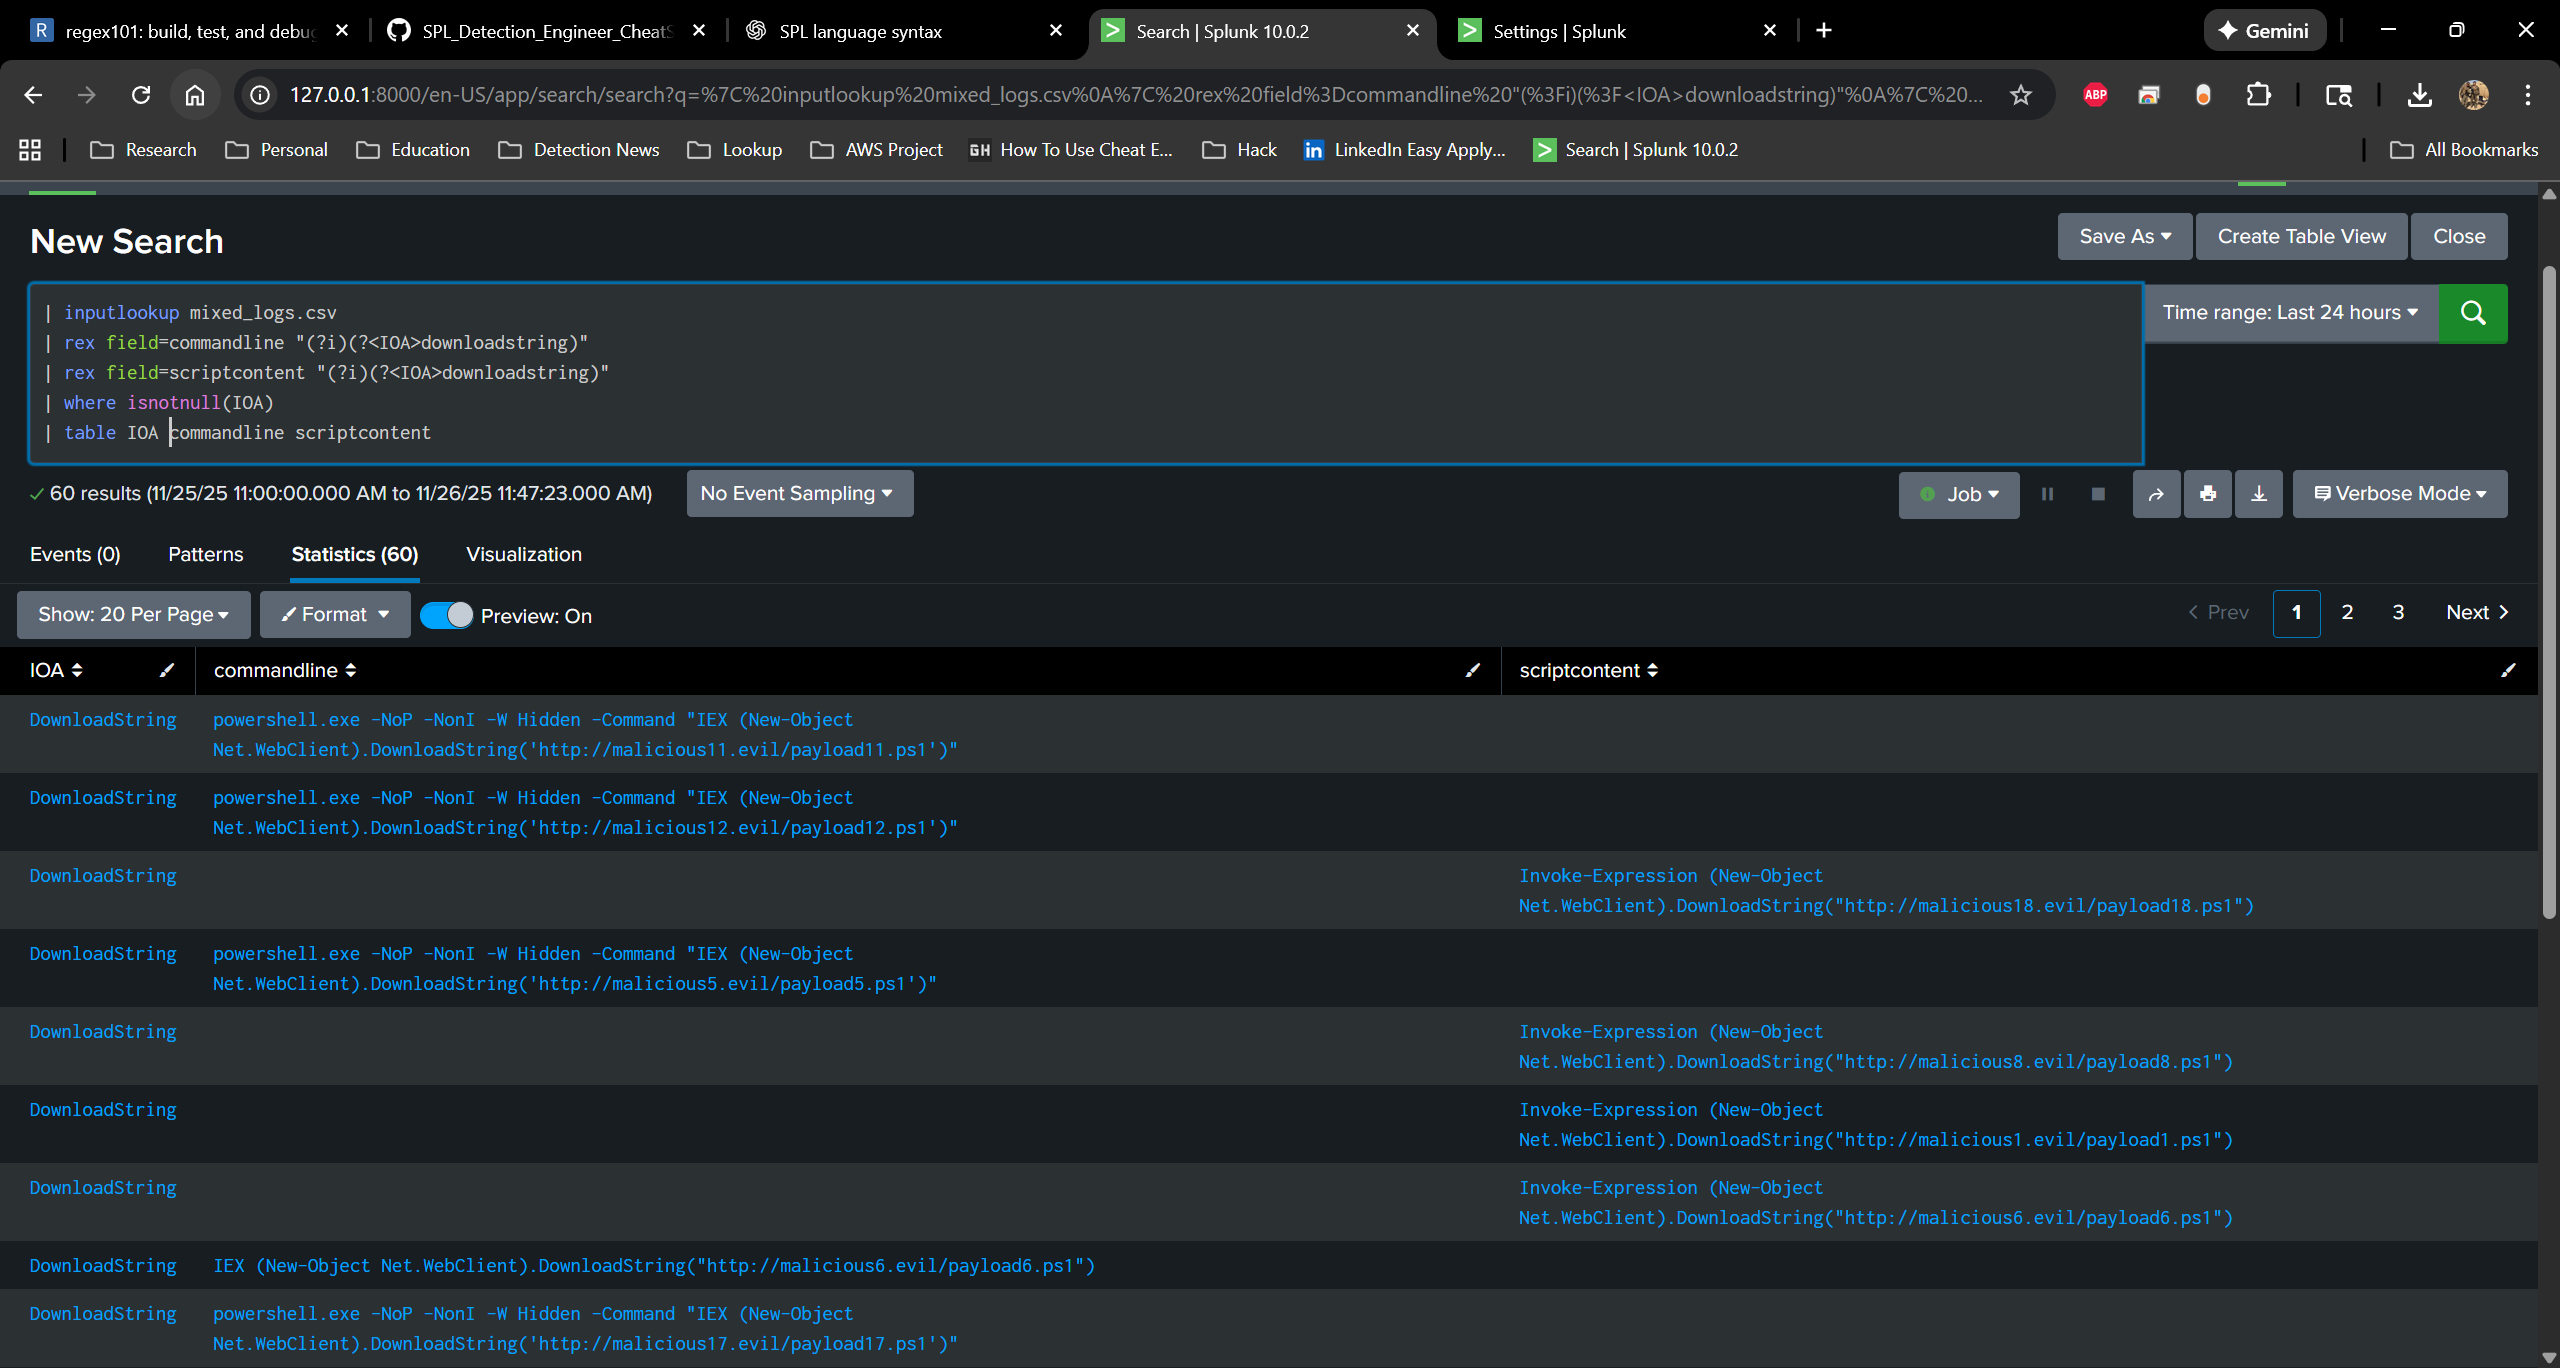
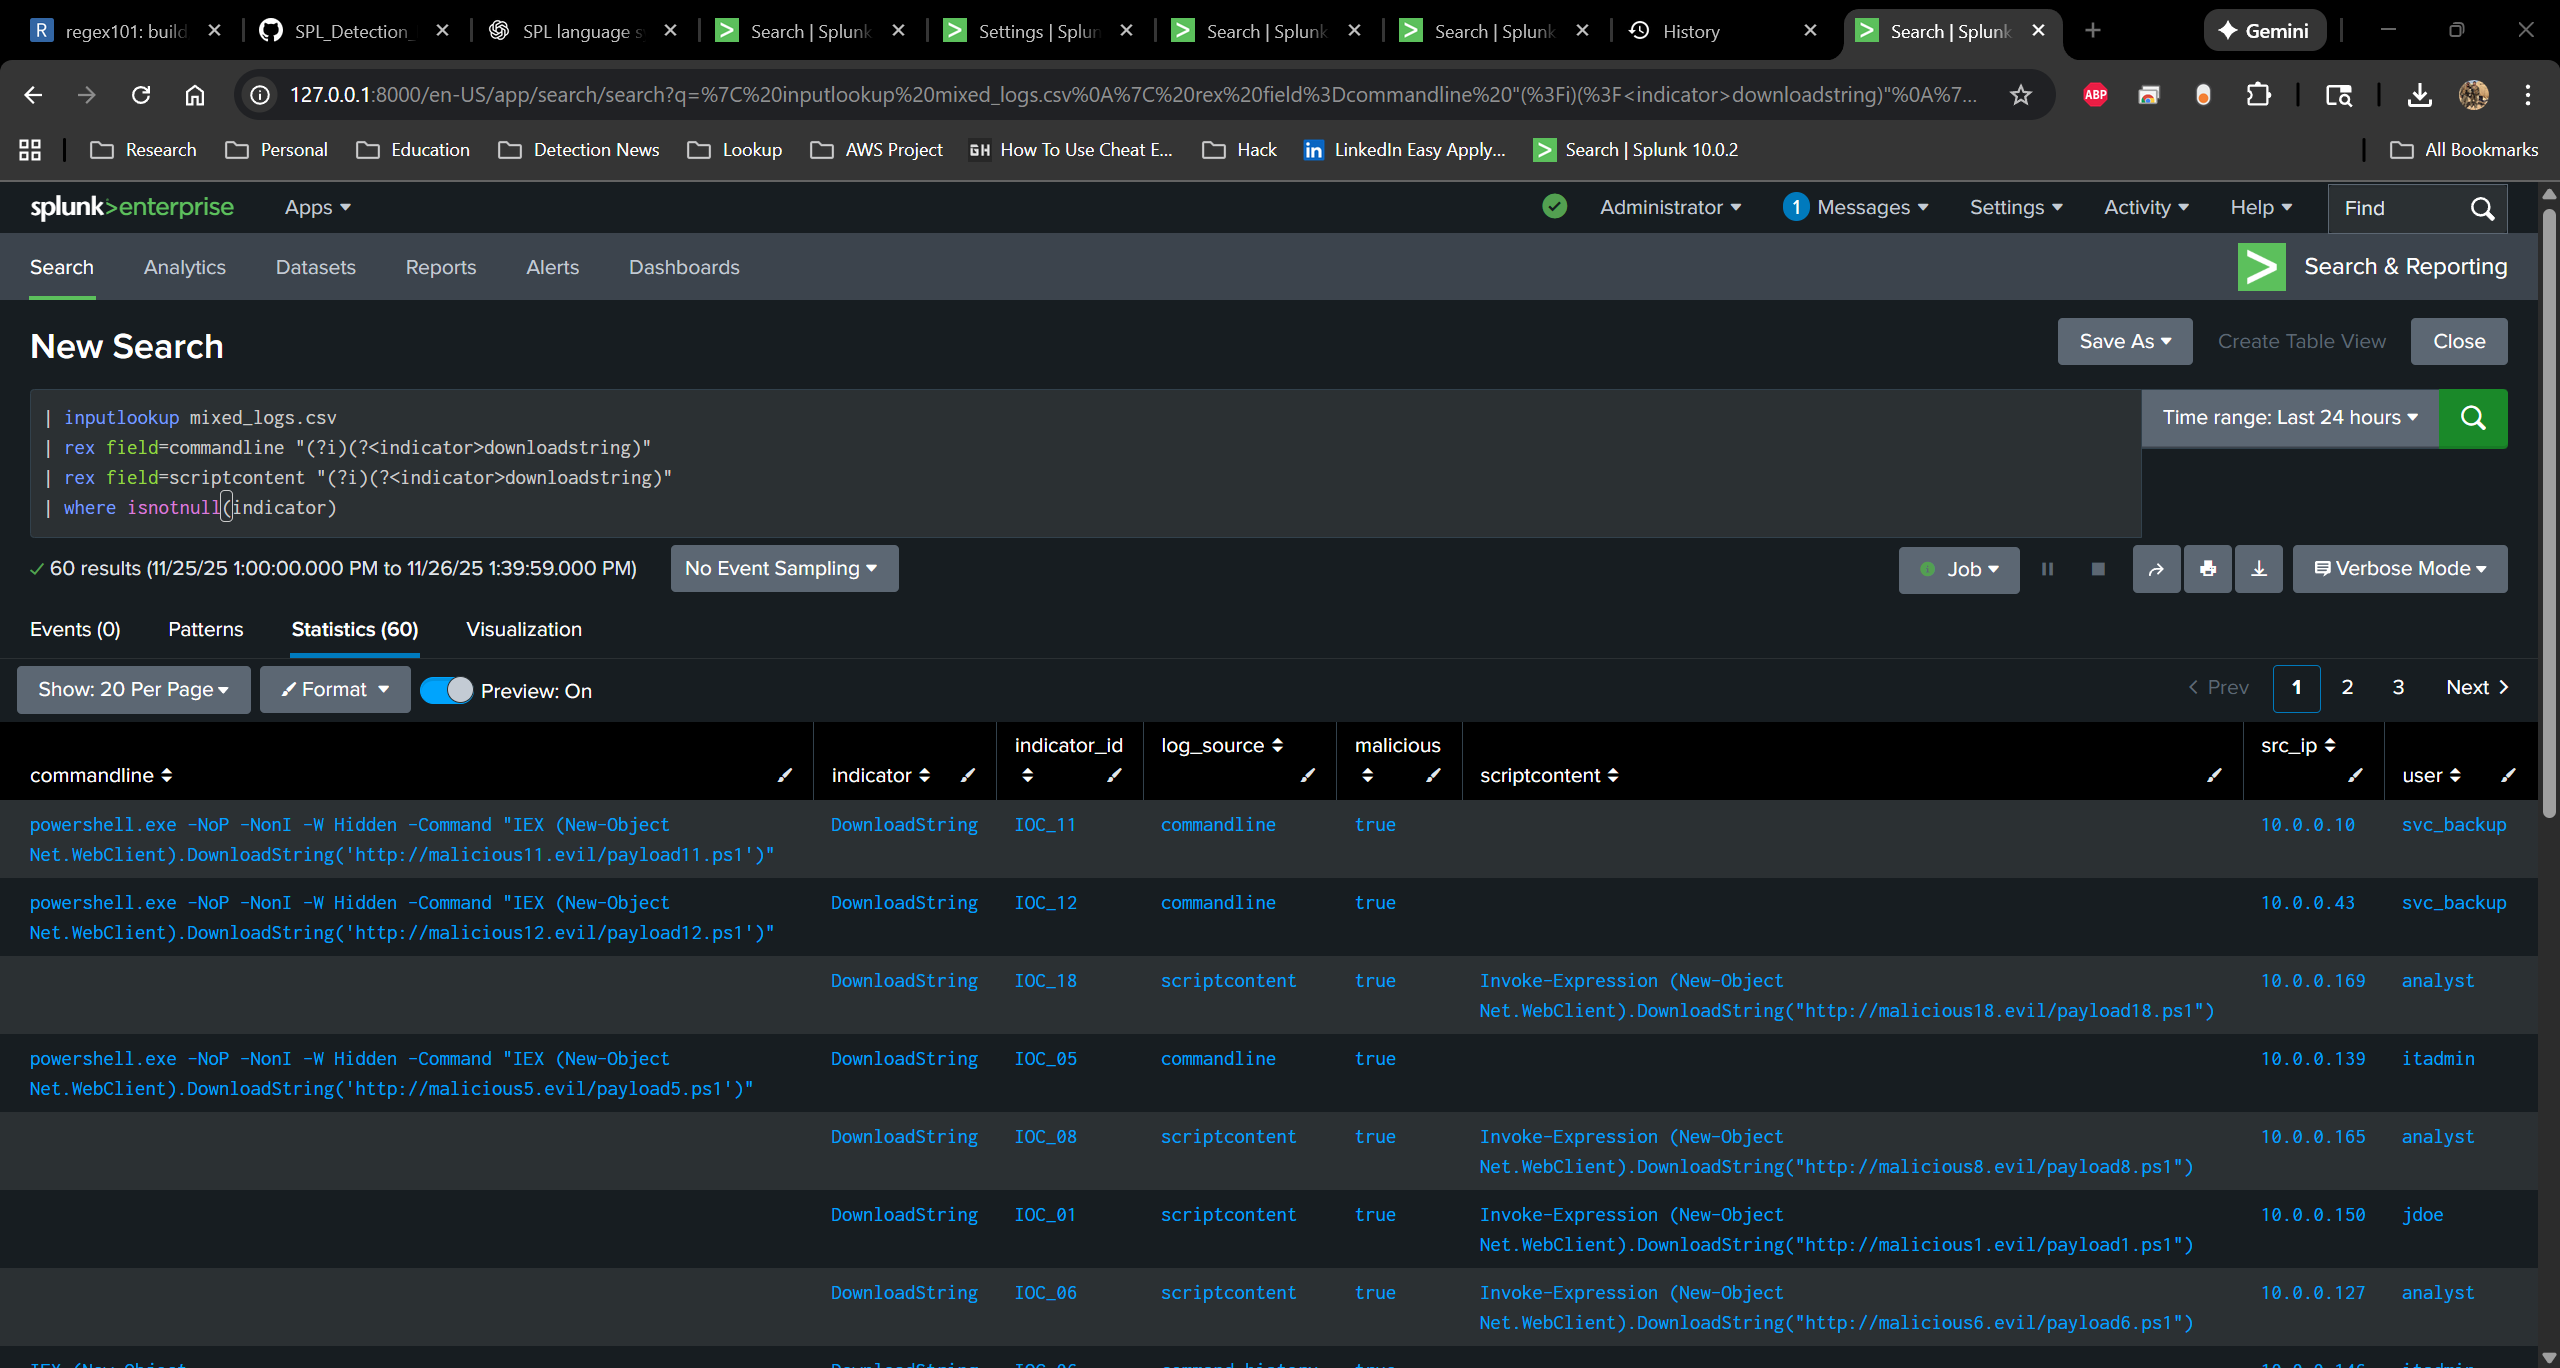
updates

diff --git a/SPL_Knowledge_Notes.md b/SPL_Knowledge_Notes.md
@@ -5,12 +5,16 @@
 
 Example Usage 1 rename:
 ```spl
-| rename user as user_name ```renamed user to user_name```
+| inputlookup gerneric_logs.csv ```pull in generic logs``` 
+| rename commandline as blah ```just rename commandline as blah```
+| table * ``` table all fields```
 ```
 ![Rename Example 1](rename_example1.png)
 Example Usage 2 rename:
 ```spl
-| rename user as user_name, username as user_name ```renamed user to user_name and username to user_name
+| inputlookup gerneric_logs.csv ```pull sample data```
+| rename commandline as commands, dest_ip as destination_ip ```rename commandline as commands and dest_ip as destination_ip```
+| table commands destination_ip ```table only those two fields```
 ```
 ![Rename Example 2](rename_example2.png)
 
@@ -22,7 +26,9 @@ Example Usage 2 rename:
 
 Example Usage (this will search for string 1 and 2 sequentially regex is a massive area that I will break down in a different guide):
 ```spl
-| regex field="(?is)string1.*string2" ```regex a field for string1 followed by string2```
+| inputlookup gerneric_logs.csv ```pull in generic logs```
+| regex commandline="(?is)cmd.*whoami" ```regex a field for string1 followed by string2```
+| table commandline ```only table out commandline```
 ```
 ![Regex Example](commandline_example.png)
 ---
@@ -32,16 +38,20 @@ Example Usage (this will search for string 1 and 2 sequentially regex is a massi
 **Uses:**
 Example (Usage matching on multple fields returning only positive hits):
 ```spl
-| rex field=commandline "(?<indicator>bad_pattern1.*badpattern2)" ```extracted bad indicator out of commandline, by matching badpattern1 followed by badpattern2```
-| rex field=commandhistory "(?<indicator>bad_pattern1.*badpattern2)" ```extracted bad indicator out of commandhistory, by matching badpattern1 followed by badpattern2```
-| rex field=scriptcontent "(?<indicator>bad_pattern1.*badpattern2)" ```extracted bad indicator out of scriptcontent, by matching badpattern1 followed by badpattern2```
+| inputlookup mixed_logs.csv
+| rex field=commandline "(?i)(?<indicator>downloadstring)" ```extracted bad indicator out of commandline, by matching pattern```
+| rex field=scriptcontent "(?i)(?<indicator>downloadstring)"```extracted bad indicator out of scriptcontent, by matching pattern```
 | where isnotnull(indicator) ```return only results where indidcator had value```
 ```
 ![Rex Example](rex_example.png)
 
 Example 2 (Using one rex to extract multple fields from a single string)
 ```spl
+| inputlookup mixed_logs.csv ```pull in sample logs```
 | rex field=commandline "(?i)(?<executable>^[^ ]+).*\/(?<payload>.+\..{3})" ```extracted the executable and the payload out of the commandline field```
+| regex commandline="(?is)downloadstring" ```regex match on commandline logs that had downloadstring```
+| head 5 ```only return first 5 events```
+| table commandline executable payload ```table out only commandline and two created fields```
 ```
 ![Rex Field Extraction Example](rex_field_extraction.png)
 
@@ -55,7 +65,11 @@ Example 2 (Using one rex to extract multple fields from a single string)
 See the user example below.
 **Example Usage:**
 ```spl
+| makeresults | eval user_email="john.borman@greatcompany.com", login_location="badplace" ```create logs for a user_email and login locations```
+| append [|makeresults | eval user_name="john.borman", login_time="tuesday"] ``` create more logs for a username log with a login time```
 | rex mode=sed field=user_email "s/@.+//g" ```replaced everything from the @ sign in an email to after that with no value```
+| eval user=coalesce(user_email,user_name) ```combine the normalized fields into the user field```
+| stats values(login_time) as login_time values(login_location) as login_location by user _time ```return the correlated values by correlated username and time```
 ```
 ![mode=sed uncorelated](mode_sed1.png)
 ![mode=sed corelated](mode_sed2.png)
@@ -69,17 +83,26 @@ See the user example below.
 **Example Usage:** (where certian field is equal to discrete value) 
 ```
 spl
+| inputlookup mixed_logs.csv ```pull test data```
+| rex field=commandline "(?i)(?<executable>^[^ ]+).*\/(?<payload>.+\..{3})" extract the payload and the executable out of the commandline```
+| regex commandline="(?is)downloadstring" ```regex match commandline for only a downloadstring```
+| head 5 ```return only first 5 results```
+| table commandline executable payload ``` table out commandline two extracted fields```
 | where executable=="powershell.exe" AND payload=="payload5.ps1" ```logical expression where excutable and payload must be equal to exact values```
 ```
 ![where discrete value 1 and 2](where1.png)
 
 **Example Usage2:** (where math, distance is greater than 200 miles) 
 ```spl
+| makeresults | eval user_email="john.borman@greatcompany.com", login_location="badplace", distance_from_work="230" ```create logs for a user 230 miles from work```
+| append [|makeresults | eval user_name="john.borman", login_time="tuesday",  distance_from_work="60"] ``` create another log for a user only 60 miles from work```
 | where distance_from_work>200 ```logical expression saying that the distance_from_work field must have avalue greater than 200 to return results```
 ```
 ![where math](where2.png)
 **Example Usage2:** (where math, logical expression) 
 ```spl
+| makeresults | eval user_email="john.borman@greatcompany.com", login_location="badplace", distance_from_work="230" create a log without a login_time value```
+| append [|makeresults | eval user_name="john.borman", login_time="tuesday",  distance_from_work="60"] ```create a log with a a login_time value```
 | where isnotnull(login_time) ```logical expression saying that the login_time field must contain a non null value```
 ```
 ![where expression](where3.png)
